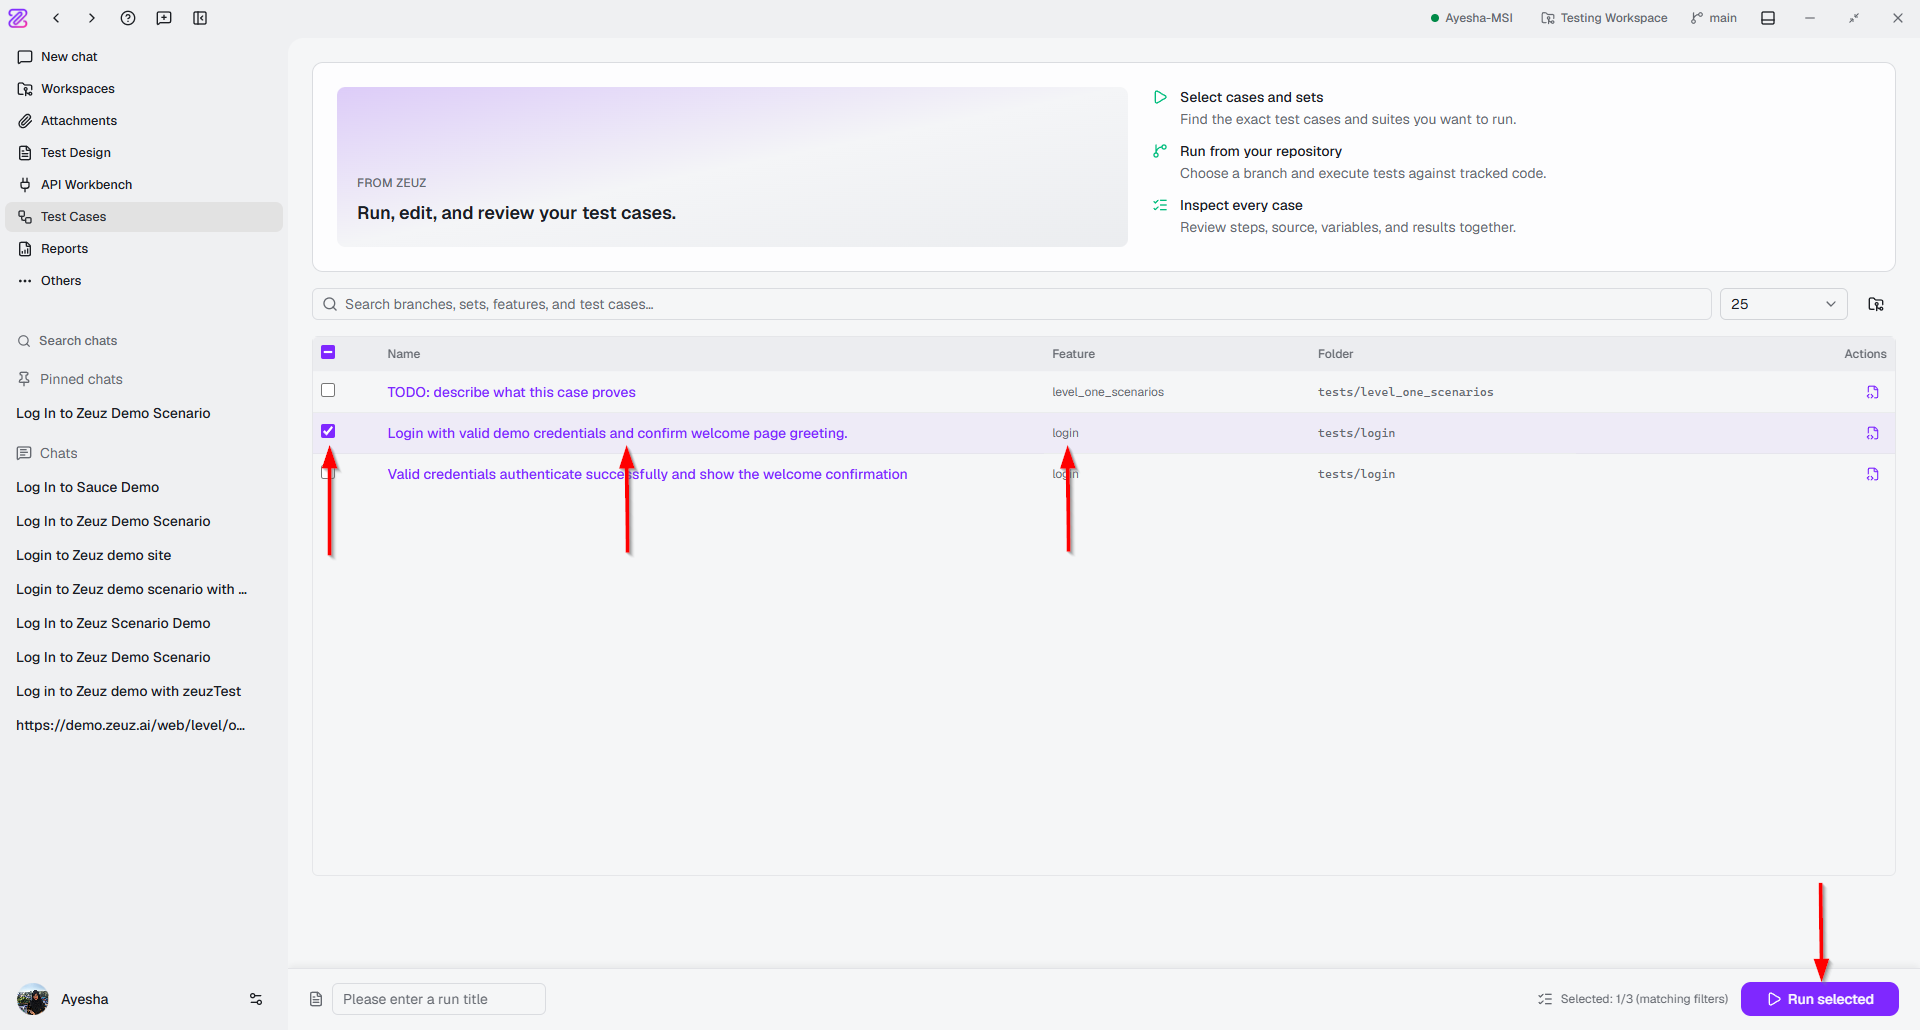
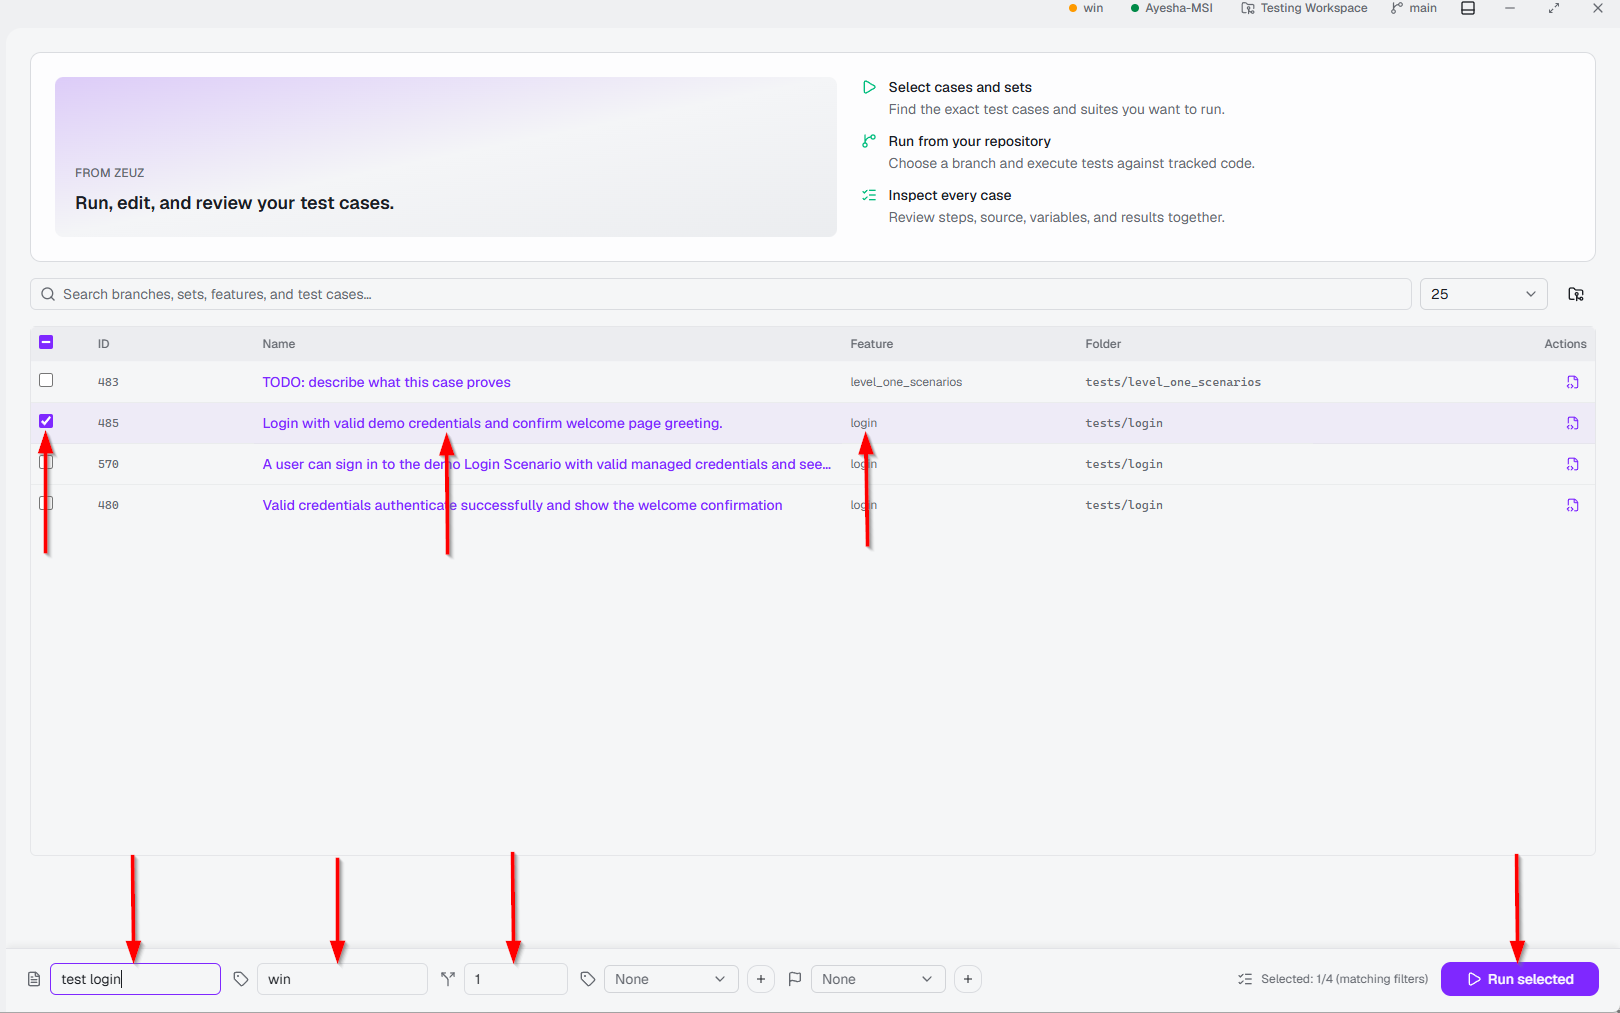
test studio docs

diff --git a/docs/ZeuZ Test Studio/Test Cases.md b/docs/ZeuZ Test Studio/Test Cases.md
@@ -1,0 +1,179 @@
+---
+id: test cases
+title: Test Cases
+---
+
+import MetaCard from '@site/src/components/MetaCard/';
+
+A **Test Case** in Test Studio is a set of steps used to verify a specific functionality of an application. It allows users to **run**, **edit**, and **review** tests and their results in one place.
+
+<MetaCard
+availableFrom="202605"
+difficulty="🟢 Easy"
+lastUpdated="29 Sep, 2026"
+/>
+
+### Why it matters / Use Cases:
+- **Functionality Verification**: Verify that specific application features work as expected.
+- **Test Execution**: Run individual test cases to validate application behavior.
+- **Test Review**: Inspect test steps, source code, variables, and execution results.
+- **Test Organization**: Organize test cases by features and folders for easier management.
+- **Repository-Based Testing**: Execute test cases against the tracked code from a selected branch.
+- **Test Maintenance**: Edit and update test cases when application functionality or requirements change.
+
+## Prerequisites
+- **Test Repository**: A test repository should be connected to the workspace to access and manage test cases.
+- **Test Cases**: At least one test case should be available in the repository.
+- **Required Test Data**: Any variables or resources required by the test case should be configured.
+- **Branch**: A valid repository branch should be available for running the test cases.
+
+## Features
+- To access Test Cases, click **Test Cases** option from the left-side panel.
+- After clicking **Test Cases** option from the left-side panel, the "Test Cases" page will appear.
+
+![](/img/zeuz-test-studio/test-left.png)
+
+### Top section of the Test Cases page
+- The top section of the **Test Cases** page provides an overview of the main activities available for managing and executing test cases.
+  - **Select cases and sets**: Allows users to find and select the test cases or suites they want to run.
+  - **Run from your repository**: Allows users to select a branch and execute tests against the tracked code.
+  - **Inspect every case**: Allows users to review test steps, source code, variables, and execution results.
+  - **Search**: The search field allows users to search for branches, sets, features, and test cases.
+  - **Items per page**: The dropdown allows users to select the number of items displayed on the page.
+  - **Open repository**: The repository icon on the right allows users to open the connected test repository.
+
+![](/img/zeuz-test-studio/test-top.png)
+
+### Test Case List
+- The test case list displays the available test cases along with their associated features and folders.
+  - **ID**: It is a unique value assigned to a test case to distinguish it from other test cases and identify it within Test Studio.
+  - **Name**: Displays the name of each test case.
+  - **Feature**: Shows the feature associated with the test case.
+  - **Folder**: Displays the repository folder where the test case is located.
+  - **Actions**: Provides actions for individual test cases. The View test code option allows users to view the code of the selected test case.
+  - **Selection**: The checkbox beside each test case allows users to select a test case for further actions.
+
+![](/img/zeuz-test-studio/test-list.png)
+
+### Functionality of Test Cases feature
+- The **Test Cases** section displays the available test cases.
+- Users must also specify a **run title**, **label**, and **split**, as these fields are required before the selected test cases can be run.
+- For example, a test case may belong to the **Login** feature and contain all the steps required to verify the login functionality. Users can also specify a **run title**. In this example, the label is set to **win**, and the number of splits is set to **1**.
+- After that, click the **Run selected** button to run the selected test case.
+
+![](/img/zeuz-test-studio/run-login.png)
+
+- After the selected test case finishes running, the user is directed to its **execution report**. It displays the following options:  
+  - **Report Name**: It displays the name or title assigned to a report to identify it easily.
+  - **Overall Status**: It indicates the combined status of all tests or test cases included in a test run.
+  - **Set**: It indicates the temporary test set used for the specific execution.
+  - **Label**: It indicates the assigned execution label.
+  - **Splits**: It means dividing the test cases or execution work into smaller groups for separate execution.
+  - **Branch**: It indicates the source-control branch associated with the test run.
+  - **Result**: It indicates the outcome of a test execution.
+  - **Total Duration**: It indicates the total amount of time taken to execute a test case or test run.
+  - **Number of Tests**: It indicates the total number of test cases included in a test run.
+  - **Version**: It is a saved state of a test case at a particular point in its development.
+  - **Milestone**: It is a defined testing goal or stage used to track the progress of testing activities.
+- The left sidebar lists previous reports and includes a search field.
+- The main report area also provides a test-case search box, an arrow for expanding the test case to inspect its steps, and a **Pin report** button.
+
+![](/img/zeuz-test-studio/test-execution.png)
+
+### Test Summary
+- After running a specific test case, click on the test case to view its test summary.
+- The **Test Summary** page provides an overview of the selected test case, including:  
+  - **Test Case Name**: The title of the test case is displayed at the top.
+  - **What this test does**: It is a section that describes the main actions or steps performed by a test case.
+  - **Data Sources**: Displays the variables used by the test case, such as username, password, and URL.
+  - **Last Run**: Shows the result of the most recent execution.
+  - **View run details**: It allows users to view detailed information about a specific test execution.
+  - **Test Case Details**: Displays information such as the test case ID, feature, test set, type, branch, number of steps, and last updated time.
+  - **Recent Runs**: Displays a visual summary of the test case's recent executions.
+- There are three options available at the top of the page, such as:  
+  - **Readable**: Displays the test case in a human-readable format, making it easier to understand the test steps and other test information.  
+
+:::note
+  The **Readable** option displays all the information and options available under **Test Summary**.
+![](/img/zeuz-test-studio/readable-test.png)
+
+:::
+  - **Code**: Displays the underlying code of the test case for users who need to review or work with its implementation.  
+
+ ![](/img/zeuz-test-studio/code-test.png)
+
+  - **Run test**: Starts the execution of the selected test case.
+
+  ![](/img/zeuz-test-studio/run-button.png)
+
+### Edit a Test Case
+- To edit a test case, first click the **Code** button. Then, click the **Edit test code** button.
+- After clicking the **Edit test code** button at the top-right, users are directed to the **Test Case Workspace**, where they can view and edit the files associated with the selected test case.
+- At the top-right corner, there is a **Save changes** button. After editing the code and making the required changes, click the **Save changes** button to save the updates.
+
+![](/img/zeuz-test-studio/edit-code.png)
+
+![](/img/zeuz-test-studio/testing-description.png)
+
+![](/img/zeuz-test-studio/login-save.png)
+
+### Explorer Panel
+- The **Explorer** is the file-navigation panel in the Test Case Workspace. It lets users browse files using two different scopes:  
+  - **This test case**: It displays only the files and code related to the selected test case.
+  - **Full repository**: It shows the entire connected test repository, including other test cases, shared files, folders, and resources.
+
+![](/img/zeuz-test-studio/explorer-menu.png)
+
+![](/img/zeuz-test-studio/this-test.png)
+
+![](/img/zeuz-test-studio/full-repository.png)
+
+## FAQs / Troubleshooting
+
+<details>
+<summary>Can I view the test case without editing it?</summary>
+
+Yes. Click the Readable option to view the test case in a human-readable format.
+
+</details>
+
+<details>
+<summary>How can I edit a test case?</summary>
+
+Click Code, and then click Edit Test Code to open the Test Case Workspace, where the associated files can be viewed and edited.
+
+</details>
+
+<details>
+<summary>How can I view the result of a test case?</summary>
+
+After execution, open the test case to view its Test Summary, which displays the execution result and other test details.
+
+</details>
+
+<details>
+<summary>Why can't I run a test case?</summary>
+
+Ensure that the required test repository is connected, the appropriate branch is selected, and the required test data or configuration is available.
+
+</details>
+
+<details>
+<summary>Why does a test case fail during execution?</summary>
+
+Review the test steps, test data, configuration, and execution details to identify the cause of the failure.
+
+</details>
+
+<details>
+<summary>Why are my changes to a test case not visible?</summary>
+
+Ensure that the changes were saved successfully and that the correct branch or version of the test case is being viewed.
+
+</details>
+
+## Changelog
+
+- A dedicated workspace for creating, refining, comparing, and versioning AI-generated UI mockups [[202605](/blog/zeuz-platform-202605/)]
+
+---

diff --git a/docs/ZeuZ Test Studio/Attachments.md b/docs/ZeuZ Test Studio/Attachments.md
@@ -22,7 +22,7 @@ lastUpdated="27 Sep, 2026"
 
 ## Prerequisites
 - **Required File**: The file to be used in the test case should be available on the local machine.
-- **Supported File**: The file should be in a format supported by the intended test scenario, such as an image or document.
+- **Supported File**: All types of files should be supported.
 - **Upload Permission**: Users must have permission to upload files to the workspace.
 - **Test Case Requirement**: If the file is intended for a test case, the test should reference the attachment using its exact registered filename.
 
